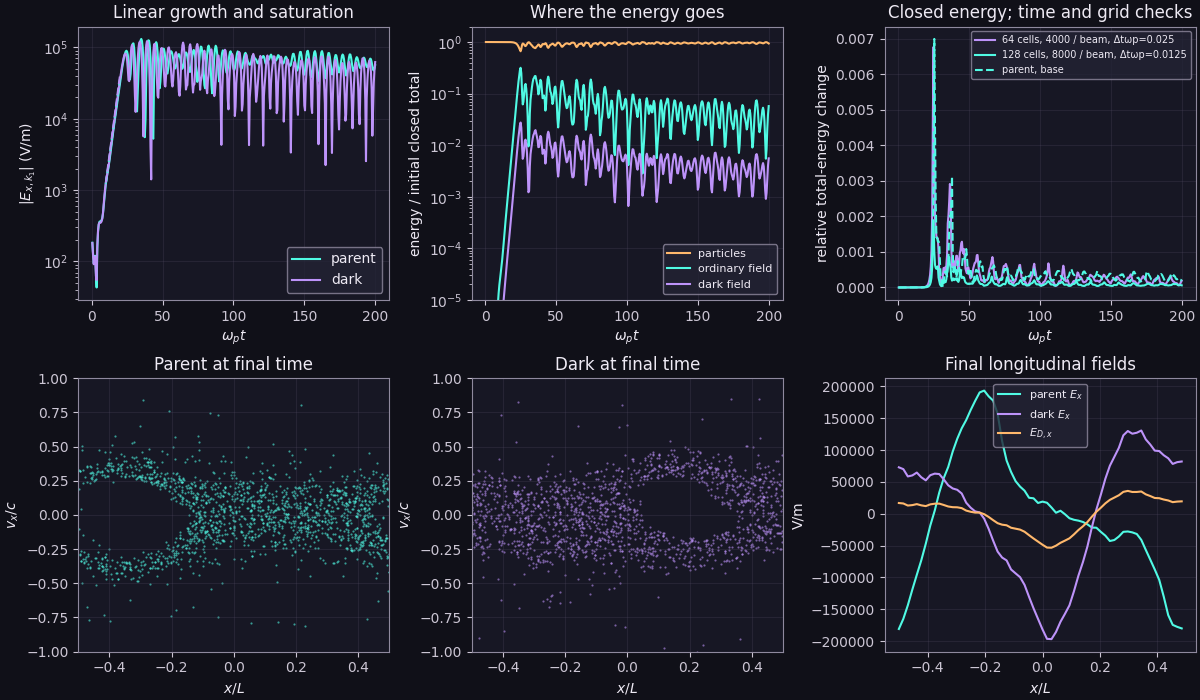
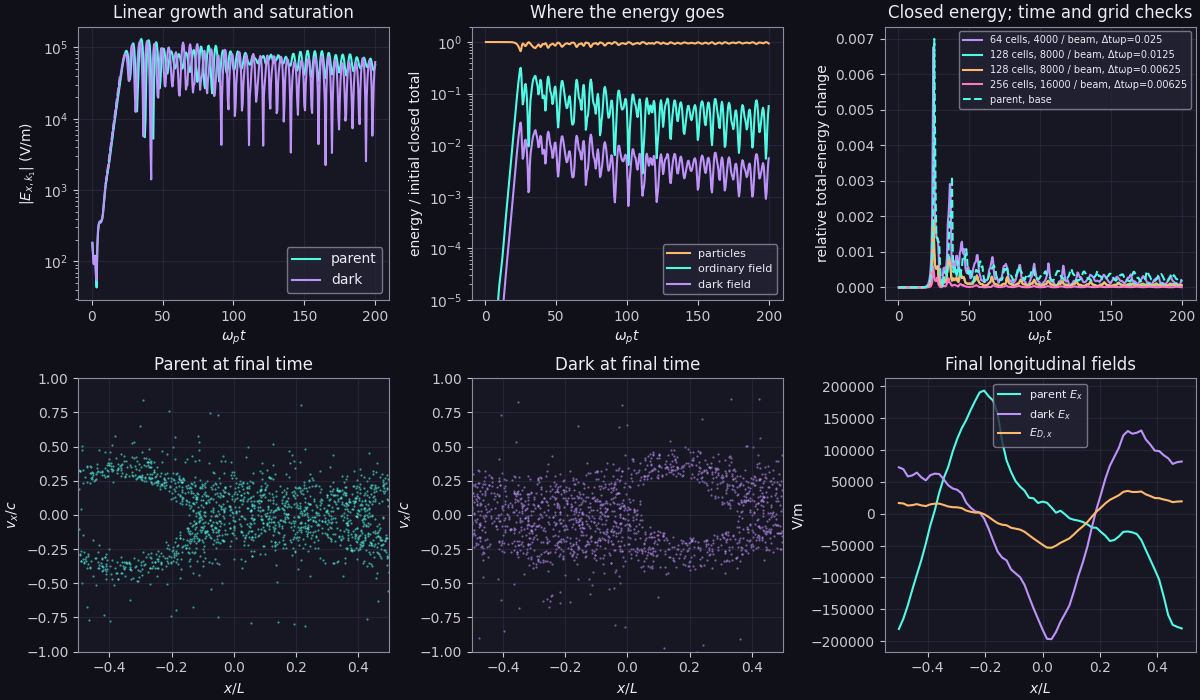
Expose unresolved late two-stream grid response

Changed region(s): [[0.8017, 0.03, 1.0, 0.15], [0.7708, 0.36, 0.9867, 0.42]]

diff --git a/docs/scripts/make_all.py b/docs/scripts/make_all.py
@@ -89,14 +89,23 @@ short = saturation["two_stream_saturation"]["results"]["cases"]
 long = saturation["two_stream_extended"]["results"]["cases"]
 for label, cases in (("short", short), ("long", long)):
     coarse = cases[1] if label == "short" else cases[0]
+    refined = cases[-1] if label == "short" else cases[1]
     measured[f"saturation_{label}_coarse_drift_percent"] = f"{100 * coarse['mixed_max_energy_drift']:.3f}"
-    measured[f"saturation_{label}_refined_drift_percent"] = f"{100 * cases[-1]['mixed_max_energy_drift']:.3f}"
+    measured[f"saturation_{label}_refined_drift_percent"] = f"{100 * refined['mixed_max_energy_drift']:.3f}"
 for i, name in enumerate(("coarse", "refined")):
     case = long[i]
     rms = case["late_mode_rms_V_m"]
     fields = case["late_fluctuating_energy_over_initial"]
     measured[f"saturation_long_{name}_mode_drop_percent"] = f"{100 * (1 - rms['mixed'] / rms['parent']):.1f}"
     measured[f"saturation_long_{name}_field_drop_percent"] = f"{100 * (1 - fields['mixed'] / fields['parent']):.1f}"
+for i, name in ((2, "halfstep"), (3, "fine")):
+    case = long[i]
+    rms = case["late_mode_rms_V_m"]
+    fields = case["late_fluctuating_energy_over_initial"]
+    measured[f"saturation_long_{name}_mode_change_percent"] = f"{100 * (rms['mixed'] / rms['parent'] - 1):+.1f}"
+    measured[f"saturation_long_{name}_field_change_percent"] = (
+        f"{100 * (fields['mixed'] / fields['parent'] - 1):+.1f}")
+measured["saturation_long_fine_drift_percent"] = f"{100 * long[3]['mixed_max_energy_drift']:.3f}"
 null = EVIDENCE.parent / "homogeneous_null"
 subprocess.run([sys.executable, str(ROOT / "examples" / "dark_null.py"), "--full",
                 "--output", str(null)], cwd=ROOT, check=True)

diff --git a/examples/dark_saturation.py b/examples/dark_saturation.py
@@ -100,12 +100,13 @@ def main():
     parser = argparse.ArgumentParser(description="Watch two matched streams meet the dark")
     preset = parser.add_mutually_exclusive_group()
     preset.add_argument("--full", action="store_true", help="factorial check through ωp t=80")
-    preset.add_argument("--extended", action="store_true", help="matched replay through ωp t=200")
+    preset.add_argument("--extended", action="store_true", help="matched grid/time replay through ωp t=200")
     parser.add_argument("--output", type=Path, default=Path("artifacts/dark_saturation"))
     args = parser.parse_args()
     eta = 0.3
     if args.extended:
-        cases = ((64, 4000, 0.025, 200), (128, 8000, 0.0125, 200))
+        cases = ((64, 4000, 0.025, 200), (128, 8000, 0.0125, 200),
+                 (128, 8000, 0.00625, 200), (256, 16000, 0.00625, 200))
     elif args.full:
         cases = ((64, 4000, 0.025, 80), (64, 4000, 0.0125, 80),
                  (64, 8000, 0.0125, 80), (128, 4000, 0.0125, 80),

diff --git a/docs/kinetic.md b/docs/kinetic.md
@@ -41,11 +41,13 @@ The RMS of $|E_{k_1}|$ on $40\leq\omega_pt\leq80$ is $69.84/67.60$, $70.95/67.97
 
 At fixed $\Delta t\omega_p=0.0125$, the $2\times2$ cell/particle comparison is revealing: doubling from 4,000 to 8,000 **quiet cold particles per beam** changes the maximum fractional dark total-energy error by less than $10^{-9}$ at either grid size. Doubling cells from 64 to 128 changes it from **{{ saturation_short_coarse_drift_percent }}%** to **{{ saturation_short_refined_drift_percent }}%**. The first-mode RMS changes by 0.1–0.7% under particle doubling at fixed grid. This isolates grid spacing as the main tested limitation for this quiet loading; it does not determine the best spline order or the particle count required by a warm/noisy plasma. The [$\omega_pt=80$ record](_static/figures/two_stream_saturation/run.json) and [arrays](_static/figures/two_stream_saturation/data.npz) keep all five cases. All energy maxima use the same $0.5/\omega_p$ output spacing.
 
-`python examples/dark_saturation.py --extended` takes the base and jointly-refined matched cases through $\omega_pt=200$ at that **same output spacing**. On $120\leq\omega_pt\leq200$, dark $k_1$ RMS is **{{ saturation_long_coarse_mode_drop_percent }}%** lower than the parent on 64 cells, but **{{ saturation_long_refined_mode_drop_percent }}%** lower on 128 cells. The time-averaged electric energy in *all nonzero spatial modes* is **{{ saturation_long_coarse_field_drop_percent }}%** and **{{ saturation_long_refined_field_drop_percent }}%** lower, respectively, normalized against the same initial parent total. These late amplitudes are visibly grid-sensitive; the run establishes neither a converged suppression factor nor a new long-time law. The largest stored-sample dark total-energy changes remain **{{ saturation_long_coarse_drift_percent }}%** and **{{ saturation_long_refined_drift_percent }}%**, with no secular increase beyond the early nonlinear peak in this diagnostic. The [$\omega_pt=200$ record](_static/figures/two_stream_extended/run.json) and [arrays](_static/figures/two_stream_extended/data.npz) preserve the matched traces.
+`python examples/dark_saturation.py --extended` takes four matched cases through $\omega_pt=200$ at that **same output spacing**: the base run, the jointly-refined run, that same 128-cell run with half its timestep, and a 256-cell run at the same smaller timestep with twice as many particles. On $120\leq\omega_pt\leq200$, dark $k_1$ RMS is **{{ saturation_long_coarse_mode_drop_percent }}%** lower than the parent on 64 cells, but **{{ saturation_long_refined_mode_drop_percent }}%** lower on 128 cells. The time-averaged electric energy in *all nonzero spatial modes* is **{{ saturation_long_coarse_field_drop_percent }}%** and **{{ saturation_long_refined_field_drop_percent }}%** lower, respectively, normalized against the same initial parent total. These late amplitudes are visibly grid-sensitive; the run establishes neither a converged suppression factor nor a new long-time law. The largest stored-sample dark total-energy changes remain **{{ saturation_long_coarse_drift_percent }}%** and **{{ saturation_long_refined_drift_percent }}%**, with no secular increase beyond the early nonlinear peak in this diagnostic. The [$\omega_pt=200$ record](_static/figures/two_stream_extended/run.json) and [arrays](_static/figures/two_stream_extended/data.npz) preserve the matched traces.
+
+At 128 cells, halving $\Delta t\omega_p$ from 0.0125 to 0.00625 leaves the late dark-minus-parent first-mode RMS at **{{ saturation_long_halfstep_mode_change_percent }}%**, versus **−{{ saturation_long_refined_mode_drop_percent }}%** before the step change. At the **same** $0.00625$ step, 256 cells and 16,000 particles per beam give **{{ saturation_long_fine_mode_change_percent }}%**. For all nonzero electric modes, those 128/256-cell differences are **{{ saturation_long_halfstep_field_change_percent }}%** and **{{ saturation_long_fine_field_change_percent }}%**. The finest run improves the largest sampled closed-energy change to **{{ saturation_long_fine_drift_percent }}%**, but reverses the direction of the late field difference. The measured late effect is therefore **not spatially converged**, even in sign.
 
 ![Matched cold two-stream fields and energy through $\omega_pt=200$](_static/figures/two_stream_extended/figure.png)
 
-Late coherent phases and vortex shapes change with grid refinement. A warmer, seeded ensemble and another grid level are needed before interpreting the late difference physically. This cold two-stream problem has no counterpart for separately dark-charged particles; both beams carry ordinary charge and couple through $\eta$. It also differs from the mobile-ion, homogeneous resonant drive in [Hook, Huang and Shalaby](https://journals.aps.org/prl/abstract/10.1103/98cx-7t43) and is not a reproduction of that paper's heating curve.
+Late coherent phases and vortex shapes change with grid refinement. A warmer, seeded ensemble and further spatial refinement are needed before interpreting the late difference physically. This cold two-stream problem has no counterpart for separately dark-charged particles; both beams carry ordinary charge and couple through $\eta$. It also differs from the mobile-ion, homogeneous resonant drive in [Hook, Huang and Shalaby](https://journals.aps.org/prl/abstract/10.1103/98cx-7t43) and is not a reproduction of that paper's heating curve.
 
 ## Transverse anisotropy
 

diff --git a/docs/performance.md b/docs/performance.md
@@ -53,4 +53,4 @@ For the **coupled** two-stream problem, halving $\Delta t\omega_p$ from 0.025 to
 
 [Markidis and Lapenta](https://arxiv.org/abs/1108.1959) use a jointly implicit particle/Maxwell midpoint solve for exact coupled energy. [Kormann and Sonnendrücker](https://arxiv.org/abs/1910.04000) derive discrete-gradient variants and identify the extra condition needed to keep Gauss. [Chen *et al.*](https://arxiv.org/abs/1903.01565) use a time-centred particle solve with leapfrog Maxwell fields to retain light-wave dispersion and conserve charge and energy. [Ricketson and Hu](https://arxiv.org/abs/2411.09605) give an explicit particle correction with very small energy error; their [2026 relativistic extension](https://arxiv.org/abs/2605.18542) covers Yee and PSATD field solvers. Either correction requires changing the particle-field coupling, not just this Proca clock. [SHARP](https://arxiv.org/abs/1702.04732) shows why higher-order particle shapes and separate grid/particle convergence matter for long kinetic runs. The parent currently uses a quadratic spline. Its Boris pusher already sees $\mathbf E+\eta\mathbf E_D$ and $\mathbf B+\eta\mathbf B_D$; a separate dark-force rotation would solve the same Lorentz equation. [Ripperda *et al.*](https://arxiv.org/abs/1710.09164) compare Boris, Vay, Higuera–Cary and implicit particle pushers for regimes where relativistic trajectory error can justify changing the pusher.
 
-The present tests favour keeping the explicit coupled step while improving spatial convergence. Another grid level and a warm, seeded ensemble should precede a production change to interpolation order. An implicit or IMEX mass solve becomes worth revisiting for $\Omega_D\Delta t$ near the explicit stability limit, with a charge-conserving current and full PIC work balance. An adaptive DOP853 field clock would require synchronized particle trajectories and current integration at its internal stages; applying it to frozen deposits would test another model. None of these source-free timings establishes a faster or more accurate nonlinear PIC solver.
+The present tests favour keeping the explicit coupled step while improving spatial convergence. The $\omega_pt=200$ first-mode difference reverses sign between 128 and 256 cells at fixed timestep even as the finest closed-energy drift falls to **{{ saturation_long_fine_drift_percent }}%**. Further grid refinement and a warm, seeded ensemble should precede a production change to interpolation order. An implicit or IMEX mass solve becomes worth revisiting for $\Omega_D\Delta t$ near the explicit stability limit, with a charge-conserving current and full PIC work balance. An adaptive DOP853 field clock would require synchronized particle trajectories and current integration at its internal stages; applying it to frozen deposits would test another model. None of these source-free timings establishes a faster or more accurate nonlinear PIC solver.

diff --git a/docs/validation.md b/docs/validation.md
@@ -18,7 +18,7 @@ The README's two looping [phase-space](_static/movies/phase_space/figure.webp) a
 | Work exchange | Full example ordinary-energy gain versus accumulated dark source work error **{{ cold_work_error }}**, relative to transferred energy |
 | Oblique magnetized cold 3V | Six field components against a 12-state fluid matrix; full example max error **{{ oblique_six_field_error }}** over $D_0$ |
 | Mixed kinetic and unstable modes | Matched parent/dark Maxwellian Landau, current-neutral cold two-stream, and transverse anisotropy compared with independent determinants; [fit and limits](kinetic.md). Broad parameter/ensemble convergence pending |
-| Long two-stream saturation | Matched parent/dark phase space, complete-energy and dark-work histories through $\omega_pt=200$; timestep and separate grid/particle checks through 80. Late amplitudes remain grid-sensitive; [trapping and energy record](kinetic.md). Another grid level and ensemble convergence pending |
+| Long two-stream saturation | Matched parent/dark phase space, complete-energy and dark-work histories through $\omega_pt=200$; timestep and separate grid/particle checks through 80. Late first-mode difference reverses sign between 128 and 256 cells at fixed timestep; [trapping and energy record](kinetic.md). Further grid and ensemble convergence pending |
 | Time integrators | Vacuum Proca split, implicit midpoint and adaptive DOP853 versus one discrete matrix exponential, with energy, dark Gauss and phase checks; coupled limits in the [time-step comparison](performance.md) |
 | Homogeneous pump null | Matched zero-drive and prescribed-drive seeded Maxwellian runs: largest normalized mode-amplitude differences **{{ null_coarse_error }}** (64 cells, 4,000 particles) and **{{ null_fine_error }}** (128 cells, 16,000 particles). This pair has not established an asymptotic convergence rate |
 | Constrained slab conversion | Outgoing photon flux, independent cold scattering, fixed-column profile constraints, held-out and refined PIC, finite-amplitude replay in [profile design](profile.md). One slab family only |

diff --git a/README.md b/README.md
@@ -46,7 +46,7 @@ Particles feel $q[\mathbf E+\eta\mathbf E_D+\mathbf v\times(\mathbf B+\eta\mathb
 | [Density calibration](examples/optimize_dark_photon.py) | PIC optimum $\omega_p^2/\omega_0^2=1.0016225$ | Independent cold/Fréchet optimum **1.0016317**, finite differences and time refinement; [details](docs/optimization.md) |
 | [Fixed-column slab](examples/dark_profile.py) | Held-out outgoing-photon fraction **0.0020826 → 0.0021179**; refined gain **1.81–1.82%** | Independent cold scattering, fixed-column/peak constraints and held-out PIC replay; [full record](docs/profile.md) |
 
-The [examples](examples/) also check all three vacuum polarizations, oblique magnetized 3V response, transverse-anisotropy growth, a resonant external drive, and mobile-ion finite-reservoir controls. The slab's finite-amplitude replay changes the yield, but finds **no reliable extra advantage from re-optimizing** at high amplitude. The two-stream result is a particular cold-beam calculation; late amplitudes through $\omega_pt=200$ remain grid-sensitive. These checks do not reproduce the long nonlinear heating curves in [Hook, Huang and Shalaby (2026)](https://doi.org/10.1103/98cx-7t43). [Validation and open limits](docs/validation.md) separate each measured result from unfinished reproduction work.
+The [examples](examples/) also check all three vacuum polarizations, oblique magnetized 3V response, transverse-anisotropy growth, a resonant external drive, and mobile-ion finite-reservoir controls. The slab's finite-amplitude replay changes the yield, but finds **no reliable extra advantage from re-optimizing** at high amplitude. The two-stream result is a particular cold-beam calculation; the late first-mode difference through $\omega_pt=200$ reverses sign between 128 and 256 cells at a fixed timestep. These checks do not reproduce the long nonlinear heating curves in [Hook, Huang and Shalaby (2026)](https://doi.org/10.1103/98cx-7t43). [Validation and open limits](docs/validation.md) separate each measured result from unfinished reproduction work.
 
 ## Install and run
 
